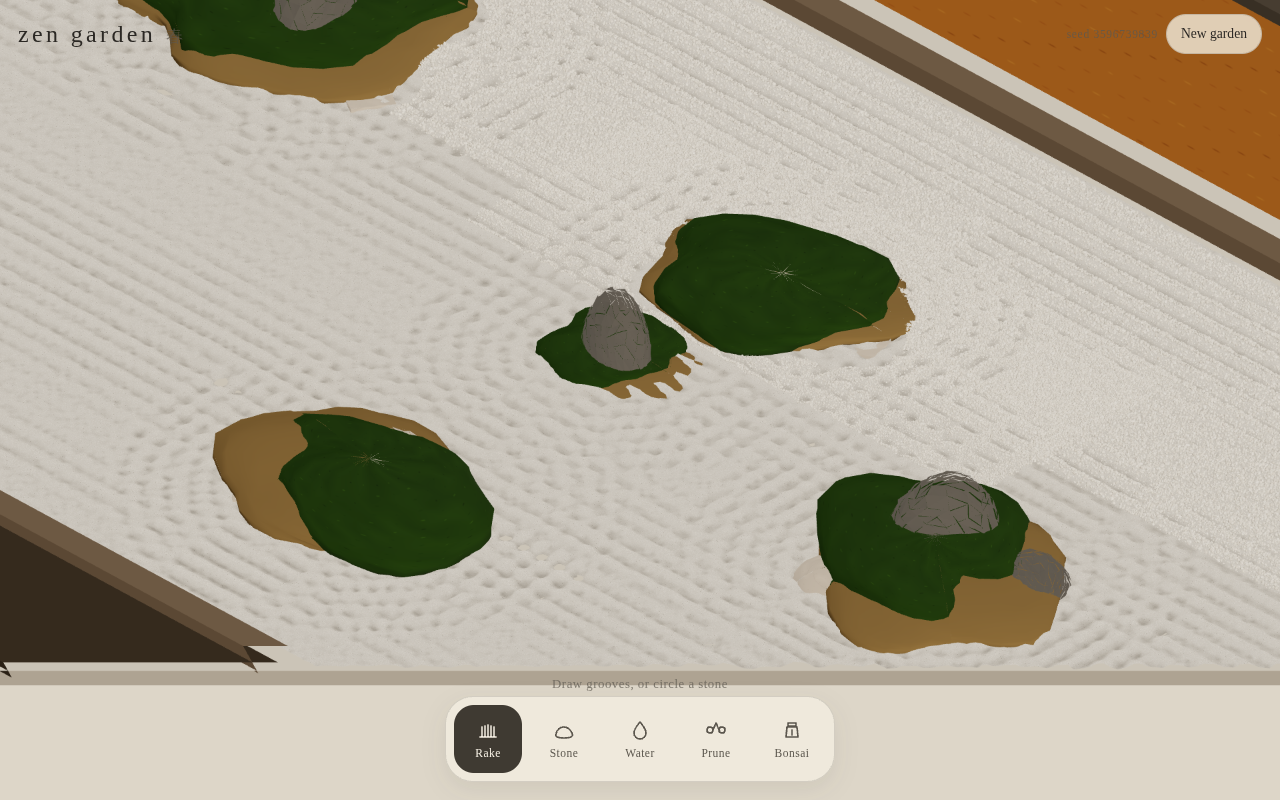
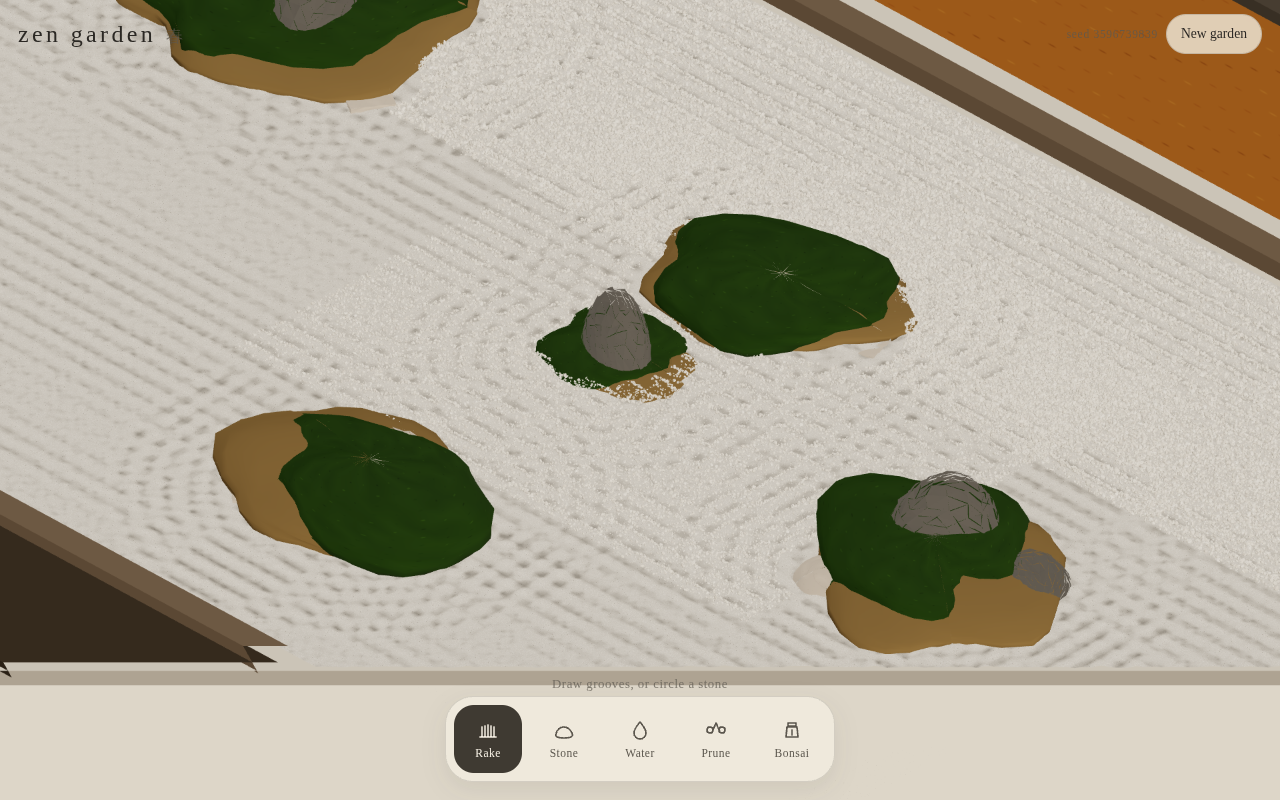
Fill the rotated close-up and look across the piles
A world-axis grain window left the diagonal nose-on shot with bare bed
corners. Use a square reach that covers any azimuth, drop bed relief
further, and aim the recapture across the rake so banks read as grit.

Changed region(s): [[0.4375, 0.4688, 0.5312, 0.5], [0.5312, 0.4375, 0.5625, 0.4688], [0.4062, 0.4375, 0.4375, 0.4688]]

diff --git a/src/grains.ts b/src/grains.ts
@@ -141,10 +141,13 @@ export class GrainBed {
 
   private layoutNear(tx: number, tz: number, zoom: number, elevation = 0.4, aspect = 1.6): void {
     const stretch = 1 / Math.max(0.22, Math.sin(elevation));
-    const halfH = THREE.MathUtils.clamp(zoom * 0.7 * stretch, 0.85, 2.9);
-    const halfW = THREE.MathUtils.clamp(zoom * 0.62 * Math.max(1.15, aspect), 0.7, 2.5);
+    const viewH = zoom * 0.72 * stretch;
+    const viewW = zoom * 0.68 * Math.max(1.15, aspect);
+    const reach = THREE.MathUtils.clamp(Math.max(viewH, viewW) * 1.22, 0.95, 3.15);
+    const halfH = reach;
+    const halfW = reach;
     const area = halfW * 2 * halfH * 2;
-    const spacing = THREE.MathUtils.clamp(Math.sqrt(area / (this.maxNear * 0.84)), this.nearMinSpacing, 0.026);
+    const spacing = THREE.MathUtils.clamp(Math.sqrt(area / (this.maxNear * 0.86)), this.nearMinSpacing, 0.028);
     const cols = Math.max(8, Math.ceil((halfW * 2) / spacing));
     const rows = Math.max(8, Math.ceil((halfH * 2) / (spacing * 0.86)));
     let n = 0;
@@ -157,7 +160,8 @@ export class GrainBed {
         const x = tx + (i + hex - cols * 0.5 + jx * 0.94) * spacing;
         const z = tz + (j - rows * 0.5 + jz * 0.94) * spacing * 0.86;
         if (Math.abs(x) > GARDEN.width * 0.5 - 0.04 || Math.abs(z) > GARDEN.depth * 0.5 - 0.04) continue;
-        writePose(this.nearX, this.nearZ, this.nearRx, this.nearRy, this.nearRz, this.nearSx, this.nearSy, this.nearSz, n, x, z, i, j, 0.72);
+        const fat = hash01(i + 3, j + 9) > 0.91 ? 1.55 : 0.7;
+        writePose(this.nearX, this.nearZ, this.nearRx, this.nearRy, this.nearRz, this.nearSx, this.nearSy, this.nearSz, n, x, z, i, j, fat);
         this.nearLayer[n] = 0;
         n += 1;
       }
@@ -262,10 +266,12 @@ export class GrainBed {
       [0.93, 0.9, 0.84],
       [0.89, 0.86, 0.8],
       [0.95, 0.91, 0.85],
-      [0.86, 0.83, 0.77],
+      [0.82, 0.78, 0.72],
       [0.91, 0.88, 0.81],
-      [0.84, 0.8, 0.74],
+      [0.76, 0.72, 0.66],
       [0.98, 0.96, 0.91],
+      [0.88, 0.84, 0.76],
+      [0.8, 0.77, 0.71],
     ];
     for (let i = 0; i < count; i++) {
       const t = tones[(Math.imul(i + salt, 1103515245) >>> 0) % tones.length];

diff --git a/tests/screenshots.spec.ts b/tests/screenshots.spec.ts
@@ -38,11 +38,11 @@ test.describe("screenshots", () => {
 
     await page.evaluate(() => {
       window.__ZEN_GARDEN__!.setCamera({
-        azimuth: 0.96,
-        elevation: 0.22,
-        zoom: 0.42,
-        tx: -3.05,
-        tz: 1.9,
+        azimuth: 0.18,
+        elevation: 0.24,
+        zoom: 0.44,
+        tx: -2.85,
+        tz: 1.88,
       });
     });
     await page.waitForTimeout(350);

diff --git a/src/sand.ts b/src/sand.ts
@@ -103,8 +103,8 @@ export class SandField {
       roughness: 0.96,
       metalness: 0,
       displacementMap: this.texture,
-      displacementScale: H_RANGE * 0.2,
-      displacementBias: H_MIN * 0.2,
+      displacementScale: H_RANGE * 0.1,
+      displacementBias: H_MIN * 0.1,
       envMapIntensity: 0,
       emissive: 0x2a261e,
       emissiveIntensity: 0.08,
